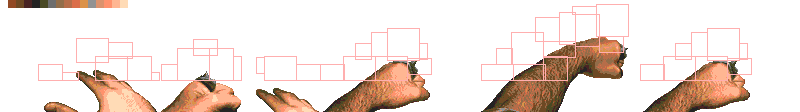
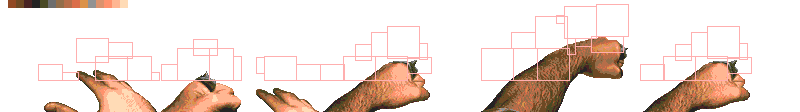
Better setup of HUD tilemap. Minor modifications and comments.

diff --git a/src/hud.c b/src/hud.c
@@ -479,13 +479,11 @@ static void setHUDFace ()
 
 u16 hud_loadInitialState (u16 currentTileIndex)
 {
-    // We have already set at resource file the base tile index from which the tileset will be located in VRAM: VRAM_INDEX_AFTER_TILES
-    currentTileIndex += img_hud_spritesheet.tileset->numTile;
-
     // Load the palettes at fixed RAM location so we can use it as a constant for faster DMA setup
     memcpy((void*)RAM_FIXED_HUD_PALETTES_ADDRESS, (void*)img_hud_spritesheet.palette->data, (16*HUD_USED_PALS)*2); // *2 for byte addressing
 
-    // Loads all the tileset at specified VRAM location
+    // We have already set at resource file the base tile index from which the tileset will be located in VRAM: VRAM_INDEX_AFTER_TILES.
+    // Loads all the tileset at specified VRAM location.
 	VDP_loadTileSet(img_hud_spritesheet.tileset, VRAM_INDEX_AFTER_TILES, DMA);
 
     // Decompress the source HUD tilemap into fixed RAM location
@@ -496,6 +494,16 @@ u16 hud_loadInitialState (u16 currentTileIndex)
     #else
     memcpy((void*)RAM_FIXED_HUD_TILEMAP_SRC_ADDRESS, (void*)img_hud_spritesheet.tilemap->tilemap, (HUD_SOURCE_IMAGE_W * HUD_SOURCE_IMAGE_H)*2); // *2 for byte addressing
     #endif
+
+    // Apply the fixed map tile base attributes
+    u16 mapBaseAttribs = HUD_BASE_TILE_ATTRIB;
+    u16* tilemapPtr = (u16*) RAM_FIXED_HUD_TILEMAP_SRC_ADDRESS;
+    for (u16 i=(HUD_SOURCE_IMAGE_W * HUD_SOURCE_IMAGE_H) - 1; i != 0xFFFF; i--) {
+        *tilemapPtr += mapBaseAttribs;
+        ++tilemapPtr;
+    }
+
+    currentTileIndex += img_hud_spritesheet.tileset->numTile;
 
     // Loads the HUD background, only once
     setHUDBg();

diff --git a/src/rom_header.c b/src/rom_header.c
@@ -1,11 +1,17 @@
 #include <genesis.h>
 
+#ifdef __GNUC__
+#define EXTERNALLY_VISIBLE_DEF __attribute__((externally_visible))
+#elif defined(_MSC_VER)
+#define EXTERNALLY_VISIBLE_DEF __declspec(dllexport)
+#endif
+
 EXTERNALLY_VISIBLE_DEF
 const ROMHeader rom_header = {
-#if (ENABLE_BANK_SWITCH != 0)
-    "SEGA SSF        ",
-#elif (MODULE_MEGAWIFI != 0)
+#if (MODULE_MEGAWIFI  && (MEGAWIFI_IMPLEMENTATION == MEGAWIFI_IMPLEMENTATION_MW_CART))
     "SEGA MEGAWIFI   ",
+#elif (ENABLE_BANK_SWITCH != 0)
+    "SEGA SSF        ",
 #else
     "SEGA MEGA DRIVE ",
 #endif

diff --git a/src/teddyBearLogo.c b/src/teddyBearLogo.c
@@ -15,13 +15,13 @@
 #include "utils.h"
 #include "logos_res.h"
 
-#define STR_VERSION "v2.12 (Jan 2026)"
+#define STR_VERSION "v2.12 (May 2026)"
 #define STR_VERSION_LEN 17 // String version length including \0
 
 #define TEDDY_BEAR_LOGO_FADE_TO_BLACK_STEPS 7 // How many steps needs to be applied as much to reach black color. Max is 7.
 #define TEDDY_BEAR_LOGO_FADE_TO_BLACK_STEP_FREQ 3 // Every N frames we apply one fade to black step.
 
-static void fadeToBlack_logo ()
+void fadeToBlack_logo ()
 {
 	u16* palsBuffer = MEM_alloc(16 * sizeof(u16));
     memcpy(palsBuffer, sprDefTeddyBearAnim.palette->data, 16 * sizeof(u16));
@@ -120,9 +120,8 @@ void displayTeddyBearLogo ()
     }
 
     // Fade out all graphics to Black
-    // NOTE: SKIP THE FADE OUT TO AVOID ADDRESS ERROR WITH THE RAY CASTER
-    //PAL_fadeOutAll(30, FALSE);
-    fadeToBlack_logo();
+    PAL_fadeOutAll(30, FALSE);
+    //fadeToBlack_logo();
 
     SPR_end();
     SYS_doVBlankProcess();

diff --git a/src/frame_buffer.c b/src/frame_buffer.c
@@ -24,8 +24,6 @@ NO_INLINE void clear_buffer ()
 {
 	// We need to clear only first TILEMAP_COLUMNS columns from each row from the framebuffer.
 	__asm volatile (
-		// Save all registers (except scratch pad). NOTE: no need to save them since this is executed at the beginning of display loop
-		//"    movem.l %%d2-%%d7/%%a2-%%a6,-(%%sp)\n"
 		// Makes a0 points to the memory location at the framebuffer's end 
         "    move.l  %[frame_buffer_end],%%a0\n" // frame_buffer end address
 		// Clear registers
@@ -85,8 +83,6 @@ NO_INLINE void clear_buffer ()
         "    .endif\n"
             // Remaining conditions (up to regs-1) should be added here and adjusted according the available registers
 		".endr\n"
-		// Restore all saved registers
-		//"    movem.l (%%sp)+,%%d2-%%d7/%%a2-%%a6\n"
 		:
 		: [frame_buffer_end] "i" (RAM_FIXED_FRAME_BUFFER_ADDRESS + (VERTICAL_ROWS*TILEMAP_COLUMNS*2)*2), 
 		  [TILEMAP_COLUMNS_BYTES] "i" (TILEMAP_COLUMNS*2), [_VERTICAL_ROWS] "i" (VERTICAL_ROWS)
@@ -99,8 +95,6 @@ NO_INLINE void clear_buffer_sp ()
 	// We need to clear only first TILEMAP_COLUMNS columns from each row from the framebuffer.
 	// Here we load the framebuffer address into the SP, previously backed up, to gain 1 more register.
 	__asm volatile (
-        // Save all registers (except scratch pad). NOTE: no need to save them since this is executed at the beginning of display loop
-		//"    movem.l %%d2-%%d7/%%a2-%%a6,-(%%sp)\n"
 		// Save current SP value in USP. Make sure you are not using SGDK's multitasking feature
 		"    move.l  %%sp,%%usp\n"
 		// Makes SP points to the memory location at the framebuffer's end 
@@ -165,8 +159,6 @@ NO_INLINE void clear_buffer_sp ()
 		".endr\n"
 		// Restore SP
 		"    move.l  %%usp,%%sp"
-		// Restore all saved registers
-		//"    movem.l (%%sp)+,%%d2-%%d7/%%a2-%%a6"
 		:
 		: [frame_buffer_end] "i" (RAM_FIXED_FRAME_BUFFER_ADDRESS + (VERTICAL_ROWS*TILEMAP_COLUMNS*2)*2),
 		  [TILEMAP_COLUMNS_BYTES] "i" (TILEMAP_COLUMNS*2), [_VERTICAL_ROWS] "i" (VERTICAL_ROWS)

diff --git a/src/frame_buffer_halved.c b/src/frame_buffer_halved.c
@@ -50,8 +50,6 @@ NO_INLINE void clear_buffer_halved ()
     // We need to clear only first TILEMAP_COLUMNS columns from each row from the framebuffer.
     // Only half Plane A and half Plane B.
 	__asm volatile (
-		// Save all registers (except scratch pad). NOTE: no need to save them since this is executed at the beginning of display loop
-		//"    movem.l %%d2-%%d7/%%a2-%%a6,-(%%sp)\n"
 		// Makes a0 points to the memory location at the framebuffer's end 
         "    move.l  %[frame_buffer_end],%%a0\n" // frame_buffer end address
 		// Clear registers
@@ -84,8 +82,6 @@ NO_INLINE void clear_buffer_halved ()
 		    // Clear all the bytes of current row by using regs registers with long word (4 bytes) access.
             MOVEM_OR_MOVES_HALVED
 		".endr\n"
-		// Restore all saved registers
-		//"    movem.l (%%sp)+,%%d2-%%d7/%%a2-%%a6\n"
 		:
 		: [frame_buffer_end] "i" (RAM_FIXED_FRAME_BUFFER_ADDRESS + (VERTICAL_ROWS*TILEMAP_COLUMNS*2)*2),
 		  [TILEMAP_COLUMNS_BYTES] "i" (TILEMAP_COLUMNS*2), [_VERTICAL_ROWS] "i" (VERTICAL_ROWS)
@@ -138,8 +134,6 @@ NO_INLINE void clear_buffer_halved_sp ()
     // Only half Plane A and half Plane B.
 	// Here we load the framebuffer address into the SP, previously backed up, to gain 1 more register.
 	__asm volatile (
-        // Save all registers (except scratch pad). NOTE: no need to save them since this is executed at the beginning of display loop
-		//"    movem.l %%d2-%%d7/%%a2-%%a6,-(%%sp)\n"
 		// Save current SP value in USP. Make sure you are not using SGDK's multitasking feature
 		"    move.l  %%sp,%%usp\n"
 		// Makes SP points to the memory location at the framebuffer's end 
@@ -176,8 +170,6 @@ NO_INLINE void clear_buffer_halved_sp ()
 		".endr\n"
 		// Restore SP
 		"    move.l  %%usp,%%sp\n"
-		// Restore all saved registers
-		//"    movem.l (%%sp)+,%%d2-%%d7/%%a2-%%a6\n"
 		: 
 		: [frame_buffer_end] "i" (RAM_FIXED_FRAME_BUFFER_ADDRESS + (VERTICAL_ROWS*TILEMAP_COLUMNS*2)*2),
 		  [TILEMAP_COLUMNS_BYTES] "i" (TILEMAP_COLUMNS*2), [_VERTICAL_ROWS] "i" (VERTICAL_ROWS)

diff --git a/src/game_loop.c b/src/game_loop.c
@@ -186,7 +186,7 @@ static void handle_input(u16* posX, u16* posY, u16* angle, u16** delta_a_ptr)
 
 void game_loop ()
 {
-    XGM2_play(vmg_01_at_dooms_gate);
+    XGM2_play(vgm_01_at_dooms_gate);
 
 	// It seems that positions in the map are multiple of FP +/- a fraction. From (1*FP + MAP_FRACTION) to ((MAP_SIZE-1)*FP - MAP_FRACTION).
 	// Smaller positions locate at top-left corner of the map[][] layout (as seen in the .h), bigger positions locate at bottom-right.
@@ -195,7 +195,7 @@ void game_loop ()
 
 	// angle max value is 1023 and is updated in (1024/AP) units.
 	// 0 points down in the map[], 256 points right, 512 points up, 768 points left, 1024 = 0.
-	u16 angle = 0; 
+	u16 angle = 0;
     u16* delta_a_ptr = (u16*)tab_deltas;
 
     #if RENDER_USE_MAP_HIT_COMPRESSED
@@ -320,7 +320,7 @@ void game_loop_auto ()
 static void dda (u16 posX, u16 posY, u16* delta_a_ptr)
 {
     #if RENDER_USE_PERF_HASH_TAB_MULU_DIST_256_SHFT_FS
-    // Value goes from 0...FP (including), multiplied by MPH_VALUES_DELTADIST_NKEYS and by 2 for faster array acces in ASM
+    // Value goes from 0...FP (including), multiplied by MPH_VALUES_DELTADIST_NKEYS and by 2 for faster array access in ASM
     u32 sideDistX_l0, sideDistX_l1, sideDistY_l0, sideDistY_l1;
     sideDistX_l0 = MPH_VALUES_DELTADIST_NKEYS * ASM_PERF_HASH_JUMP_BLOCK_SIZE_BYTES * (posX & (FP-1));
     sideDistX_l1 = MPH_VALUES_DELTADIST_NKEYS * ASM_PERF_HASH_JUMP_BLOCK_SIZE_BYTES * FP - sideDistX_l0;

diff --git a/res/vgm_res.h b/res/vgm_res.h
@@ -3,8 +3,8 @@
 #ifndef _RES_VGM_RES_H_
 #define _RES_VGM_RES_H_
 
-extern const u8 vmg_01_at_dooms_gate[6656];
+extern const u8 vgm_01_at_dooms_gate[6656];
 extern const u8 vgm_12_title_screen[1280];
-extern const u8 vmg_13_the_end_of_doom[5888];
+extern const u8 vgm_13_the_end_of_doom[5888];
 
 #endif // _RES_VGM_RES_H_

diff --git a/inc/consts_ext.h b/inc/consts_ext.h
@@ -57,7 +57,7 @@
 #elif DISPLAY_LOGOS_AT_START == F && DISPLAY_TITLE_SCREEN == T
 #define RAM_FIXED_VDP_SPRITE_CACHE_ADDRESS 0xE0FF02B2
 #else
-#define RAM_FIXED_VDP_SPRITE_CACHE_ADDRESS 0xE0FF029C
+#define RAM_FIXED_VDP_SPRITE_CACHE_ADDRESS 0xE0FF021C
 #endif
 
 // This is the fixed RAM address for the hud_tilemap_src array.

diff --git a/src/title_vscroll_2_planes.c b/src/title_vscroll_2_planes.c
@@ -568,7 +568,7 @@ void title_vscroll_2_planes_show ()
     VDP_drawImageEx(BG_B, (const Image*) &img_title_logo, TILE_ATTR_FULL(PAL0, 0, FALSE, FALSE, logoTileIndex), 
         TITLE_LOGO_X_POS_TILES, TITLE_LOGO_Y_POS_TILES, FALSE, TRUE);
 
-    XGM2_play(vmg_13_the_end_of_doom);
+    XGM2_play(vgm_13_the_end_of_doom);
 
     // Fade in the DOOM logo
     PAL_fadeInAll(img_title_logo.palette->data, 30, FALSE);

diff --git a/inc/consts.h b/inc/consts.h
@@ -57,7 +57,6 @@
 #define DMA_ENQUEUE_VDP_SPRITE_CACHE_FOR_SGDK_QUEUE F
 #define DMA_ENQUEUE_VDP_SPRITE_CACHE_ON_CUSTOM_SPR_QUEUE F
 
-// If change this value then update map_base parameter in hud_res.res file using value from HUD_BASE_TILE_ATTRIB
 #define VRAM_INDEX_AFTER_TILES (1 + 8*8 + 8*8)
 
 #define FS 8 // Fixed Point size in bits

diff --git a/inc/hud_consts.h b/inc/hud_consts.h
@@ -13,7 +13,6 @@
 
 #define HUD_BASE_PAL PAL2 // If change this value you'll have to update map_base parameter in resource file
 #define HUD_USED_PALS 2
-// This value is the parameter map_base that has to go in the resource file if you modify one of the above. Currently is 16456.
 #define HUD_BASE_TILE_ATTRIB TILE_ATTR_FULL(HUD_BASE_PAL, 1, FALSE, FALSE, VRAM_INDEX_AFTER_TILES)
 
 #define HUD_TILEMAP_COMPRESSED T // If TRUE then we decompress it into a buffer. Otherwise we use the uncompressed data from ROM.

diff --git a/README.md b/README.md
@@ -8,9 +8,13 @@ This version implements the same ray casting but with a screen size of **320x192
 
 You can find me in the SGDK Discord server: https://discord.gg/xmnBWQS
 
+### SGDK lib config
+---
+Before you compile this project, make sure your SGDK library was built with next switches in `config.h`:
+- `LEGACY_FONT_LOCATION    1`
 
 ### fabri1983's notes (since Aug/18/2024)
--------------------------------------
+---
 - Ray Casting: https://lodev.org/cgtutor/raycasting.html
 - DDA = Digital Differential Analysis.
 - Modified to display full screen in **320x192**, +32 pixels height for the HUD.
@@ -42,20 +46,18 @@ You can find me in the SGDK Discord server: https://discord.gg/xmnBWQS
   This reduce DMA presure during VBlank up to a 50%, but adds more CPU pressure during top half active display period.
 - SGDK's `SPR_update()` function was copied and modified to handle DMA for specific cases, and also removed unused features.
   See comments with tag fabri1983 at `spr_eng_override.c` => `~1% saved in cpu usage`.
-- `sega.s`: use `_VINT_lean` instead of SGDK's `_VINT` to only increment vtimer and call user's vint callback.
+- `sega.s`: use `_VINT_lean` instead of SGDK's `_VINT` to only increment vtimer and call user's vint callback immediately.
 - SGDK's `SYS_doVBlankProcessEx()` function was modified to remove unwanted logic. See render.c => `~1% saved in cpu usage`.
 - SGDK's `JOY_update()` and `JOY_readJoypad(JOY_1)` functions were copied and modified to handle only 6 button joypad and used 
-  at `render_SYS_doVBlankProcessEx_ON_VBLANK()` => => `2% saved in cpu usage`.
+  at `render_SYS_doVBlankProcessEx_ON_VBLANK()` => `2% saved in cpu usage`.
 - Commented out the `#pragma` directives for loop unrolling => `~1% saved in cpu usage`. It may vary according the use/abuse of *FORCE_INLINE*.
 - Manual unrolling of 2 (or 4) iterations for column processing => `2% saved in cpu usage`. It may vary according the use/abuse of *FORCE_INLINE*.
 
 
 ### fabri1983's resources notes:
-----------------------------
-- `RAM_FIXED_VDP_SPRITE_CACHE_ADDRESS` set in `consts_ext.h`: check this constant everytime you get a black screen when running the game.
-- HUD: the hud is treated as an image. The resource definition in `hud_res.res` file expects a map base attribute value which is 
-  calculated before hand. See `HUD_BASE_TILE_ATTRIB` in `hud.h`.
-- HUD: if resource is compressed then also set const `HUD_TILEMAP_COMPRESSED` in `hud.h`.
+--
+- `RAM_FIXED_VDP_SPRITE_CACHE_ADDRESS` set in `consts_ext.h`: change it accordingly to the value the inital screen shows you (if it does so).
+- HUD: if resource is compressed then set const `HUD_TILEMAP_COMPRESSED` in `hud_consts.h`.
 - WEAPONS: the location of sprite tiles is given by methods like `weapon_getVRAMLocation()`. Required for `SPR_addSpriteEx()`.
 - Additional free VRAM: Planes A and B bottom region covered by the HUD, which is in Window Plane, leaves unused VRAM.
   Window Plane leaves unused VRAM from where it begins down to the address where the HUD is displayed.